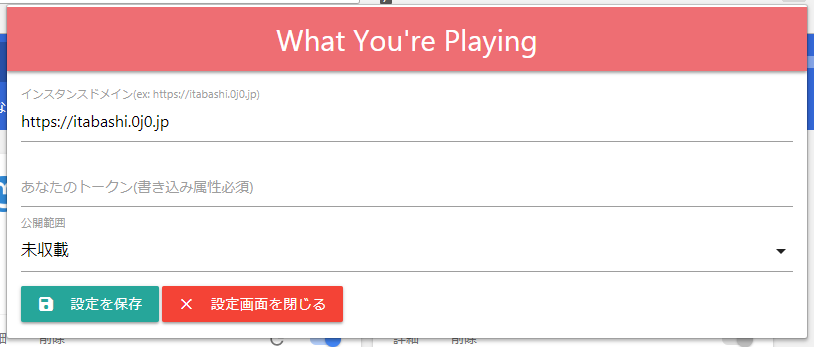
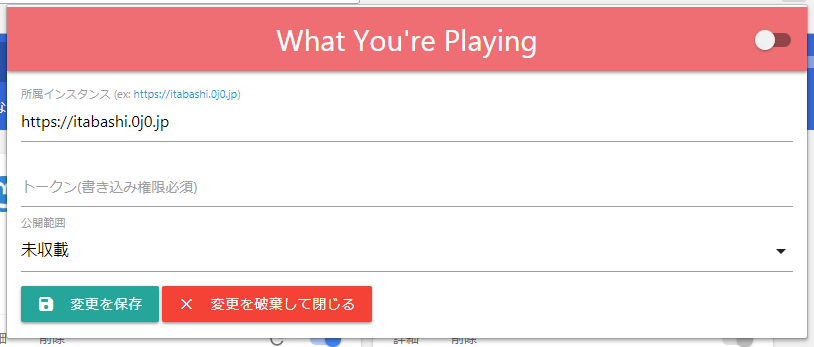
[Update] v3.2リリース

diff --git a/view/index.html b/view/index.html
@@ -3,12 +3,13 @@
 <HTML>
 	<Head>
 		<Meta Charset = "UTF-8" />
-		<Title>せってーがめん！！ | What You're Playing</Title>
+		<Title>Setting | What You're Playing</Title>
 
 		<Script Src = "lib/materialize.js"></Script>
 		<Link Rel = "StyleSheet" Href = "lib/materialize.css" />
 		<Link Rel = "StyleSheet" Href = "lib/Material Icons/material-icons.css" />
 
+		<Script Src = "locale.js"></Script>
 		<Script Src = "main.js" Defer></Script>
 		<Link Rel = "StyleSheet" Href = "main.css" />
 	</Head>
@@ -34,34 +35,37 @@
 		<Main>
 			<Div Class = "input-field">
 				<Input ID = "instance" Type = "Text"/>
-				<Label For = "instance">インスタンスドメイン(ex: https://itabashi.0j0.jp)</Label>
+				<Label For = "instance">
+					<Locale Message = "setting_instance">Your instance</Locale>
+					(ex: <A Href = "https://itabashi.0j0.jp" Target = "_blank">https://itabashi.0j0.jp</A>)
+				</Label>
 			</Div>
 
 			<Div Class = "input-field">
 				<Input ID = "token" Type = "Text"/>
-				<Label For = "token">あなたのトークン(書き込み属性必須)</Label>
+				<Label For = "token" Locale-Message = "setting_token">Your token(Required permission to write)</Label>
 			</Div>
 
 			<Div Class = "input-field">
 				<Select ID = "privacy">
-					<Option Name = "privacy.public" Value = "public">公開</Option>
-					<Option Name = "privacy.unlisted" Value = "unlisted">未収載</Option>
-					<Option Name = "privacy.private" Value = "private">非公開</Option>
-					<Option Name = "privacy.limited" Value = "limited">限定公開(※一部のインスタンスのみ)</Option>
+					<Option Name = "privacy.public" Value = "public" Locale-Message = "setting_privacy_public">Public</Option>
+					<Option Name = "privacy.unlisted" Value = "unlisted" Locale-Message = "setting_privacy_unlisted">Unlisted</Option>
+					<Option Name = "privacy.private" Value = "private" Locale-Message = "setting_privacy_private">Private</Option>
+					<Option Name = "privacy.limited" Value = "limited" Locale-Message = "setting_privacy_limited">Limited(Only for implemented instances)</Option>
 				</Select>
 
-				<Label>公開範囲</Label>
+				<Label Locale-Message = "setting_privacy">Privacy</Label>
 			</Div>
 
 			<Div>
 				<Button ID = "btns_save" Class = "btn waves-effect waves-light">
 					<I Class = "material-icons left">save</I>
-					設定を保存
+					<Locale Message = "setting_save">Save the changes</Locale>
 				</Button>
 
 				<Button ID = "btns_close" Class = "btn red waves-effect waves-light">
 					<I Class = "material-icons left">close</I>
-					設定画面を閉じる
+					<Locale Message = "setting_close">Discard this change and close</Locale>
 				</Button>
 			</Div>
 		</Main>

diff --git a/view/locale.js b/view/locale.js
@@ -1,0 +1,28 @@
+const LANG = chrome.app.getDetails().current_locale;
+
+let definedMessages = {};
+	fetch(chrome.extension.getURL(`_locales/${LANG}/messages.json`)).catch(error => fetch(chrome.extension.getURL(`_locales/en/messages.json`))).then(response => response.json()).then(messages => {
+		definedMessages = messages;
+
+		let localeElements = document.querySelectorAll('Locale[Message]');
+			localeElements.forEach(elem => {
+				let localeId = elem.getAttribute("Message");
+
+				try {
+					elem.textContent = definedMessages[localeId].message;
+				} catch (error) {
+					throw new TypeError(`The provided locale-id<${localeId}> is not defined`);
+				}
+			});
+
+		let localeAttrs = document.querySelectorAll('*[Locale-Message]');
+			localeAttrs.forEach(attrElem => {
+				let localeId = attrElem.getAttribute("Locale-Message");
+
+				try {
+					attrElem.textContent = definedMessages[localeId].message;
+				} catch (error) {
+					throw new TypeError(`The provided locale-id<${localeId}> is not defined`);
+				}
+			});
+	});

diff --git a/README.md b/README.md
@@ -14,11 +14,11 @@ This is a list of features.
 
 ## How to Use | どうするのー？
 Please edit configurate from option page.<Br />
-We recommend to generate new app for this extension to provide a token.
+We recommend to generate new app to get a token, or get one from developer-tool.
 ![Option Page](image/001.png)
 
 ## Others | その他
-These codes are based on an application, which was only for me, so it might not work well.
+There might be any bugs, so feel free to report :)
 
 ## Author | つくったひとー！！
 * [@ProgrammerGenboo](https://itabashi.0j0.jp/@ProgrammerGenboo)
